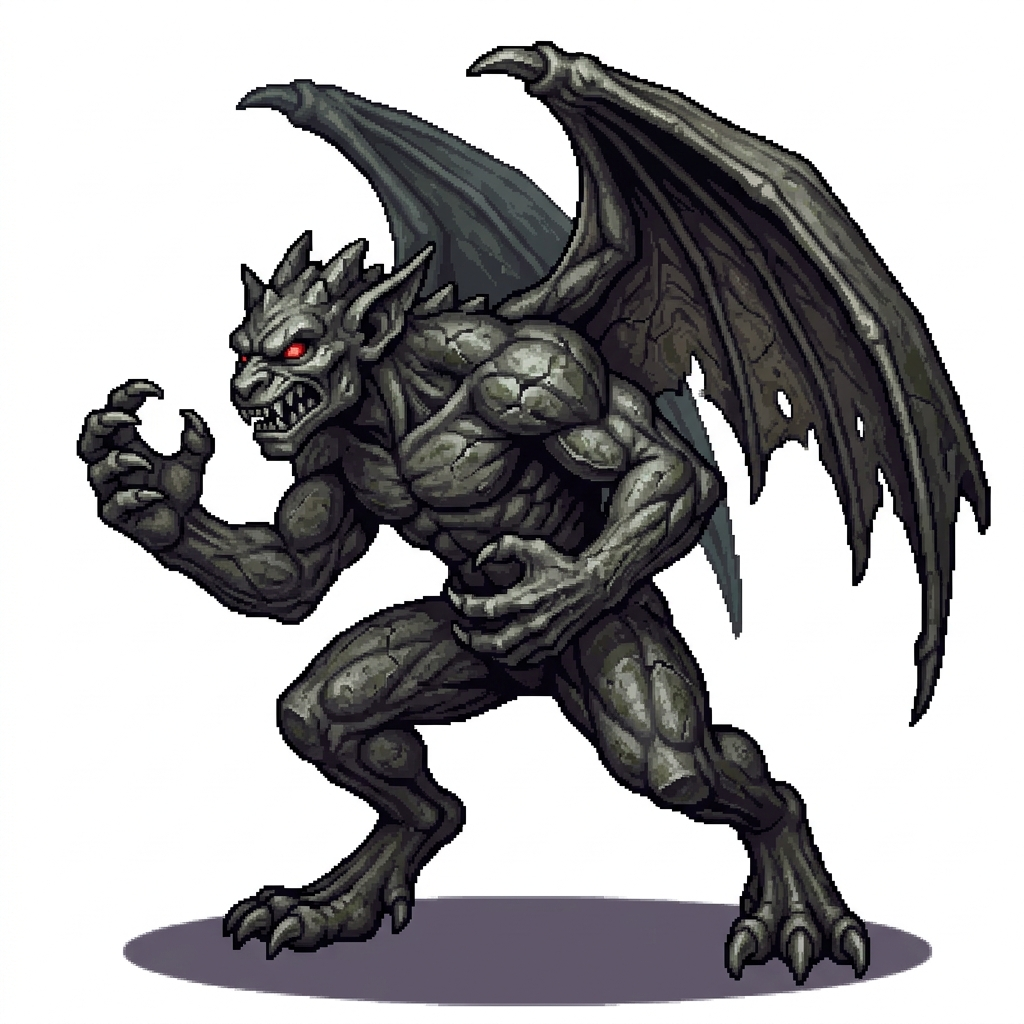
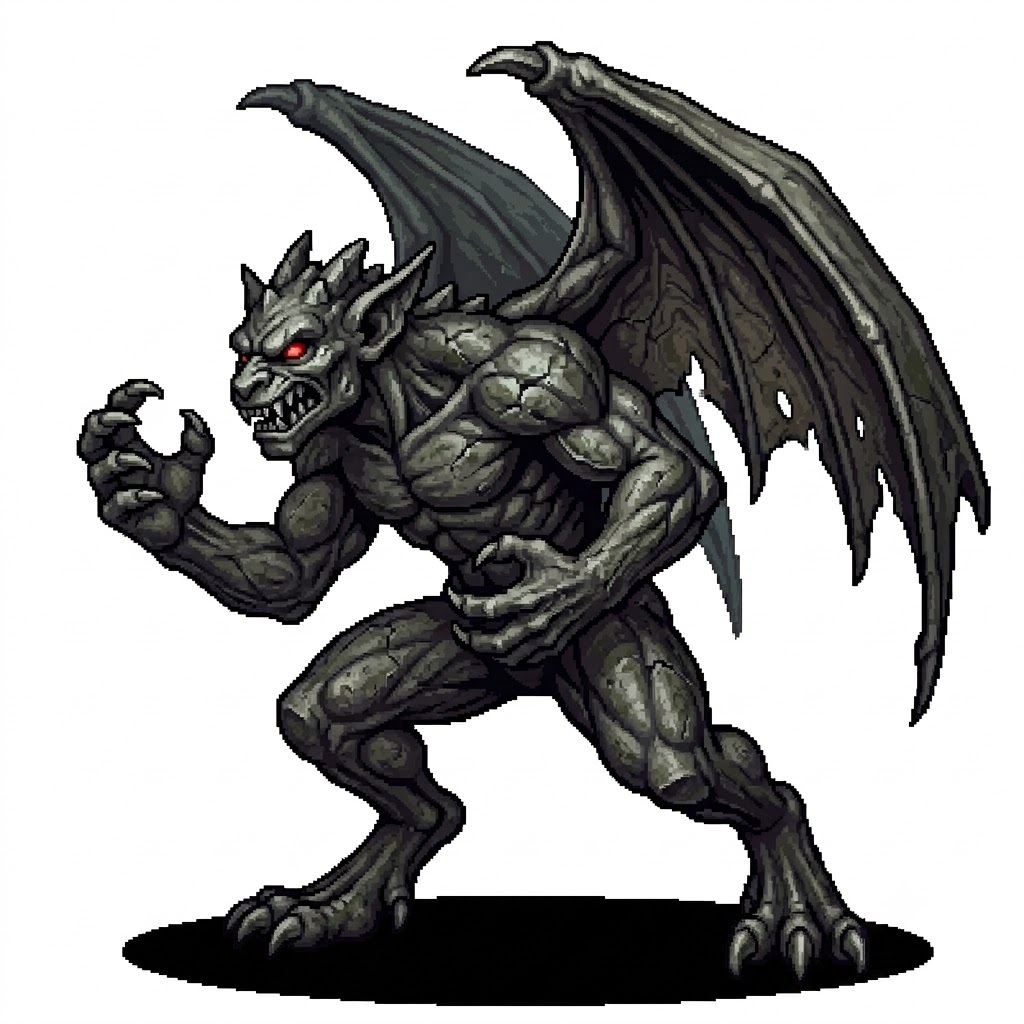
feat: add gargoyle enemy asset and implement texture transparency processing in CombatScene

diff --git a/src/phaser/scenes/CombatScene.ts b/src/phaser/scenes/CombatScene.ts
@@ -30,33 +30,7 @@ export class CombatScene extends Phaser.Scene {
   private skeletonMinion!: Phaser.GameObjects.Image;
   private lastSkeletonTickTimer: number = 1000;
   private isSkeletonAttacking: boolean = false;
-  // Controle de tempo de inatividade (catch-up quando volta para a aba)
-  private hiddenAt: number = 0;
-  private readonly handleVisibilityChange = (): void => {
-    if (document.hidden) {
-      this.hiddenAt = Date.now();
-    } else if (this.hiddenAt > 0) {
-      const inactiveMs = Date.now() - this.hiddenAt;
-      this.hiddenAt = 0;
-      // Só simula se ficou inativo por mais de 1 segundo
-      if (inactiveMs > 1000 && this.fsm) {
-        // Limita o catch-up a 10 minutos para não travar o navegador
-        const cappedMs = Math.min(inactiveMs, 600000);
-        const step = 100; // passo de 100ms
-        const steps = Math.floor(cappedMs / step);
-        const isLoreOpen = useGameStore.getState().character.introLoreShown === false;
-        const gameSpeed = isLoreOpen ? 0 : useGameStore.getState().gameSpeed;
-        const speedMult = gameSpeed === 0 ? 0 : (gameSpeed || 1);
-        if (speedMult > 0) {
-          console.log(`[CombatScene] Catch-up: simulando ${steps} passos de ${step}ms (${(cappedMs / 1000).toFixed(1)}s ausente)`);
-          for (let i = 0; i < steps; i++) {
-            this.fsm.update(step * speedMult);
-          }
-        }
-      }
-    }
-  };
-
+  
   public readonly PLAYER_START_X = 200;
   public readonly PLAYER_START_Y = Math.round((600 - 50 * ZOOM_FACTOR) - (165 * ZOOM_FACTOR) / 2);
   public readonly ENEMY_START_X = 900;
@@ -362,9 +336,6 @@ export class CombatScene extends Phaser.Scene {
         this.fsm.handlePlayerTap(pointer.x, pointer.y);
       }
     });
-
-    // Listener de visibilidade: permite catch-up de combate ao voltar para a aba
-    document.addEventListener('visibilitychange', this.handleVisibilityChange);
 
     // Notifica o React que a arena de combate foi carregada e inicializada com sucesso
     bridge.emit(GameEvent.ARENA_READY, {});
@@ -1286,7 +1257,6 @@ export class CombatScene extends Phaser.Scene {
   }
 
   private cleanup(): void {
-    document.removeEventListener('visibilitychange', this.handleVisibilityChange);
     if (this.unsubscribeSkill) {
       this.unsubscribeSkill();
       this.unsubscribeSkill = undefined;